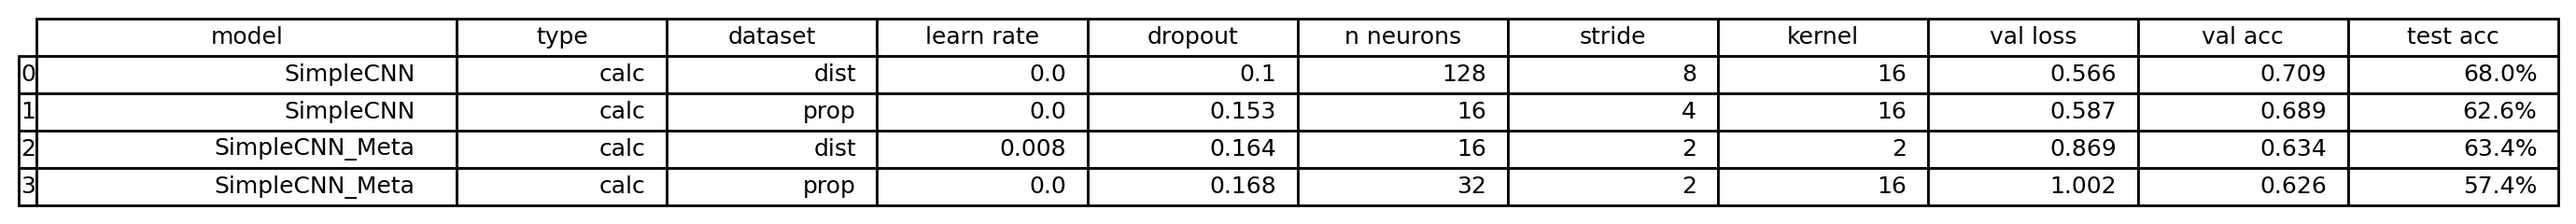
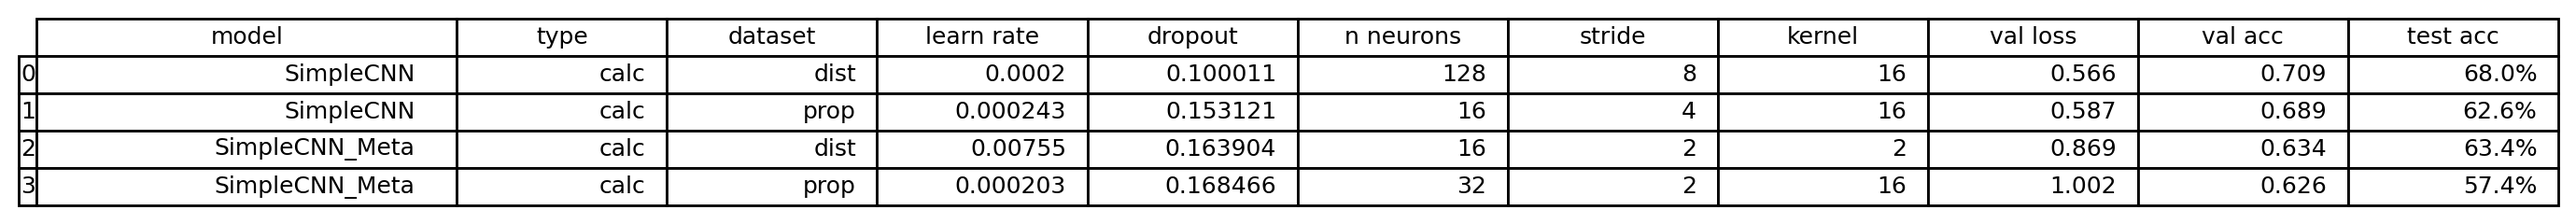
Mejora de gráficas
Mejora de gráficas

diff --git a/92create_trial_model_results.py b/92create_trial_model_results.py
@@ -35,11 +35,12 @@ for models_path, models_name in datasets:
     print(f"Processing dataset: {models_name}")
     dataset = pd.read_csv(os.path.join('models', models_path))
     dataset = dataset.sort_values(by='val_accuracy', ascending=False).reset_index(drop=True).head(50)
-
-    for col in dataset.select_dtypes(include=['float64']).columns:
-        dataset[col] = dataset[col].round(3)
     
-    dataset['num_neurons'] = dataset['num_neurons'].fillna('-')
+    dataset['dropout_rate'] = dataset['dropout_rate'].round(6)
+    dataset['learning_rate'] = dataset['learning_rate'].round(6)
+    dataset['val_loss'] = dataset['val_loss'].round(3)
+    dataset['num_neurons'] = dataset['num_neurons'].fillna(0).astype('Int64').astype(str)
+    dataset['num_neurons'] = dataset['num_neurons'].replace('0', '-')
     dataset['val_accuracy'] = dataset['val_accuracy'] * 100
     dataset['val_accuracy'] = dataset['val_accuracy'].round(1).astype(str) + '%'
     

diff --git a/93create_best_models_results.py b/93create_best_models_results.py
@@ -52,9 +52,12 @@ for models_path, models_name in best_models:
     dataset = pd.concat(models_info_list, ignore_index=True)
     
     dataset = dataset.sort_values(by='val_accuracy', ascending=False).reset_index(drop=True)
-    for col in dataset.select_dtypes(include=['float64']).columns:
-        dataset[col] = dataset[col].round(3)
-    dataset['num_neurons'] = dataset['num_neurons'].fillna('-')
+    dataset['dropout_rate'] = dataset['dropout_rate'].round(6)
+    dataset['learning_rate'] = dataset['learning_rate'].round(6)
+    dataset['val_loss'] = dataset['val_loss'].round(3)
+    dataset['val_accuracy'] = dataset['val_accuracy'].round(3)
+    dataset['num_neurons'] = dataset['num_neurons'].fillna(0).astype('Int64').astype(str)
+    dataset['num_neurons'] = dataset['num_neurons'].replace('0', '-')
     dataset['accuracy'] = dataset['accuracy'].round(1).astype(str) + '%'
     dataset = dataset.rename(columns=column_rename_dict)
     
